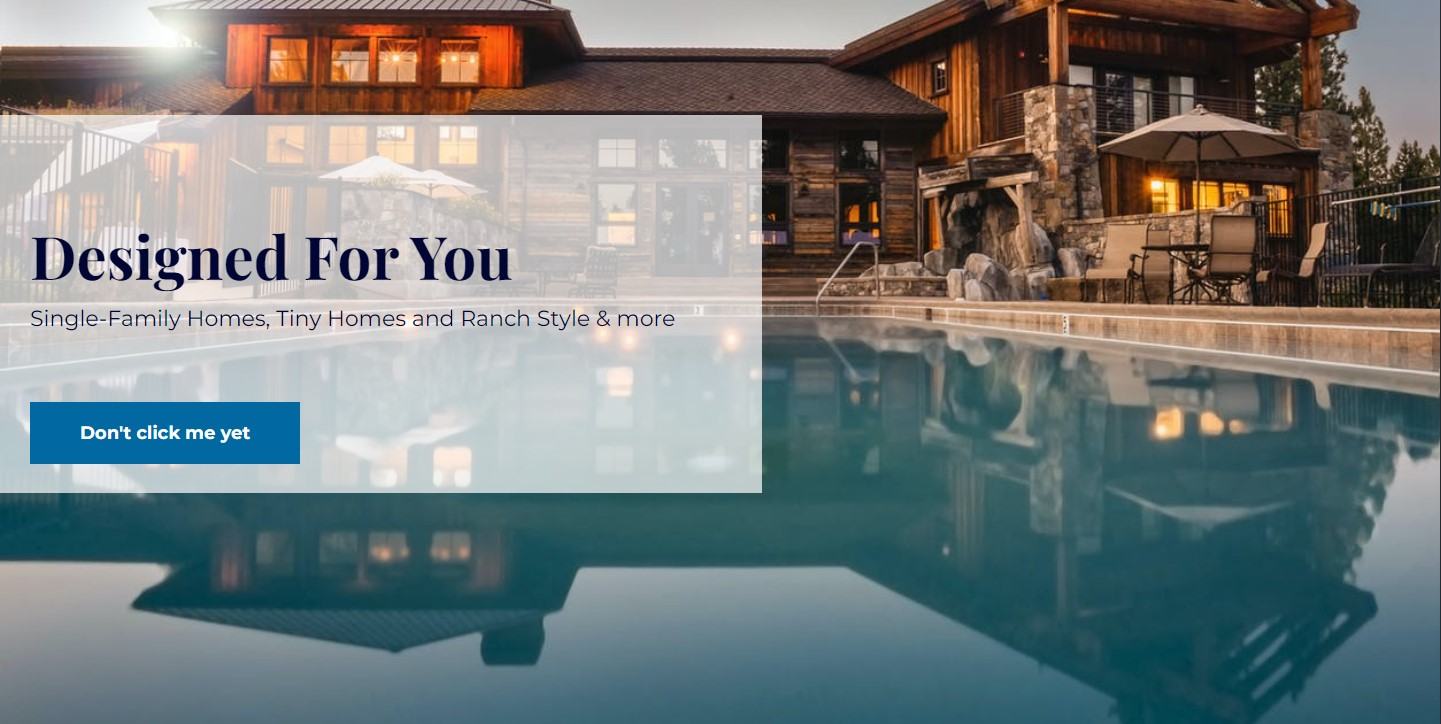
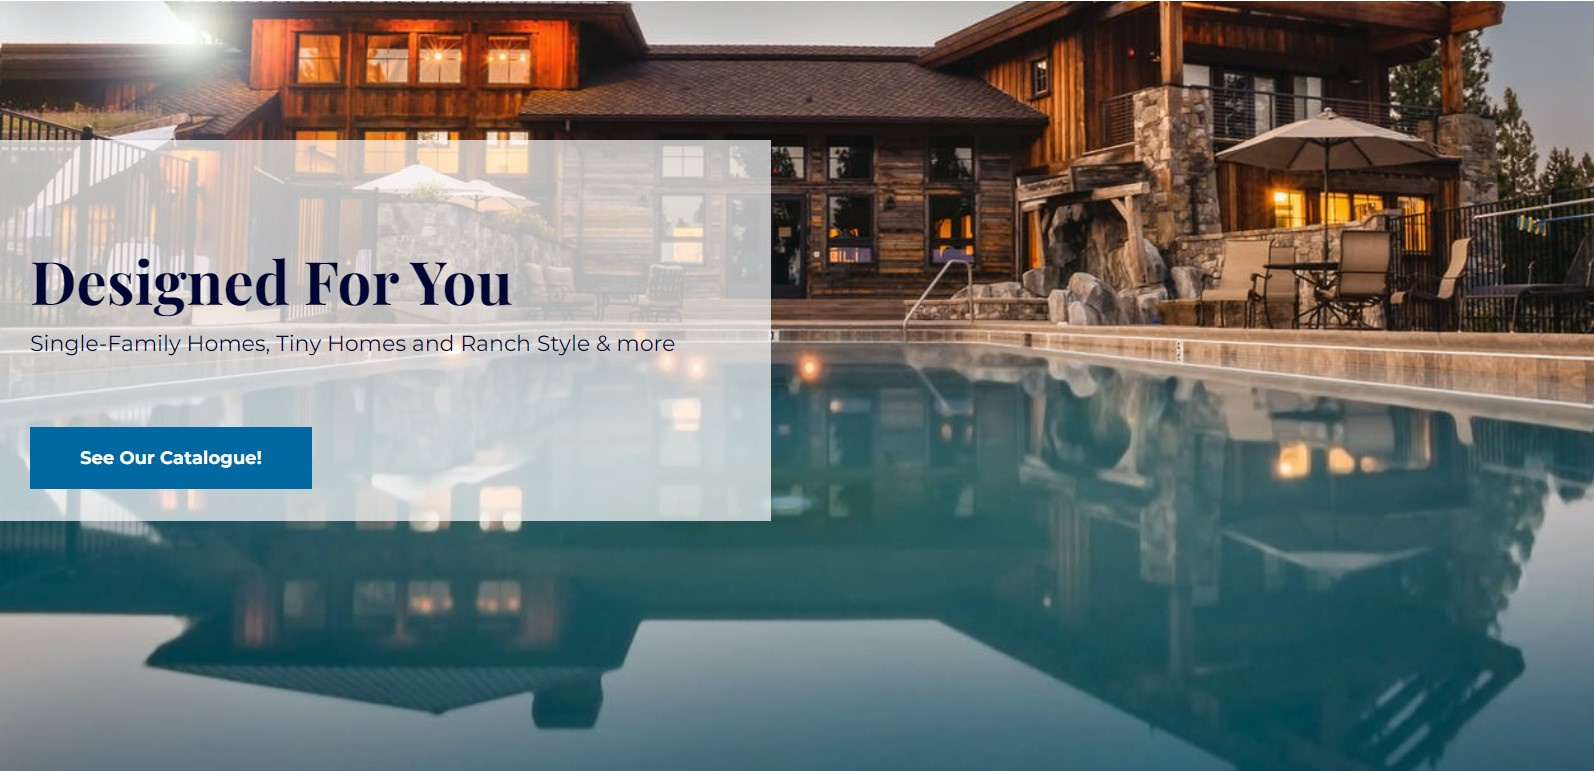
README - complete documentation

diff --git a/index.html b/index.html
@@ -37,7 +37,7 @@
             <div id="welcome-text">
                 <h2>Designed For You</h2>
                 <p>Single-Family Homes, Tiny Homes and Ranch Style & more</p>
-                <a class="button" href="catalogue.html">Don't click me yet</a>
+                <a class="button" href="catalogue.html">See Our Catalogue!</a>
             </div>
         </section>
 

diff --git a/README.md b/README.md
@@ -1,9 +1,9 @@
 # BC Real Estate
 
-The BC Real Estate website is a landing page for our imaginary real estate company.
-The user can explore all the different sections of the page, such as: the features section, the offer section, as well as interact with the map  and the social links at the bottom of the page.
-
+The BC Real Estate website is a landing page for an imaginary real estate company.
+The user can explore all the different sections of the landing page, and not only.
 The website is composed of three separate pages all displayed in the navigation bar of the landing page. 
+Each page presents different feature as well as different functionalities that will enhance the overall experience of the website.
 
 ![Responsive Mockup](docs/responsive_mockup.jpeg)
 ## Features
@@ -12,37 +12,31 @@ In general terms, the features of this website serve two main purposes: to invit
 
 ### Existing Features
 
-- __Navigation Bar__
+__Navigation Bar__
 
-
-- The fully responsive navigation bar is included and identical on all three pages.The navigation bar is kept both in style and functionality the same.
+- The fully responsive navigation bar is included on all three pages. The navigation bar is kept both in style and functionality the same.
 - The navigation bar is fixed to the top of the page from 768px onwards. From small screen (320px) the navigation bar is presented as a list menu.
 
 ![NavBar](docs/nav_bar_mockup.jpeg)
 ![NavBar small device](docs/responsive_nav_bar_mockup.jpeg)
 
 
-
-
-
-- __The landing page__
-
+__The landing page__
 
 - The landing includes a photograph as a background image and a box with a clickable option that redirects the user to the catalogue.
 ![Landing page](docs/landing_page_mockup.jpeg)
 
 
-- __Features section__
+__Features section__
 
-- This section includes three main features that the company is offering to their customers
 - The three features present a clickable options: Browse the catalogue, View Locations and See all showhomes.
-- The last feature presents a call to action to invite people to book a view, the clickable button will redirect the user to the contact page.
+- The last feature presents a call to action to invite people to book a view with the company. The clickable button will redirect the user to the contact page.
 
 ![Feature section](docs/feature_mockup.jpeg)
 ![Feature section](docs/feature_mockup2.jpeg)
 
 
-- __Help section__
+__Help section__
 
 This section is thought to be presented as extra services that can be offered to the customers. 
 The aim of the section is to provide extra guidance and to build a sense of trust in the user.
@@ -50,34 +44,93 @@ The aim of the section is to provide extra guidance and to build a sense of trus
 
 
 
-- __Map section__
+__Map section__
 
 Extra feature to add visibility for the company's imaginary location.
 ![Map section](docs/map_location.jpeg)
 
 
-- __Footer section__
+__Footer section__
 
-In the footer section I've included links to four prominent social media sites for BC Real Estate.
+In the footer section I've included several links to four prominent social media sites for BC Real Estate.
 All links open to new tabs when clicked.
 
 ![Footer section](docs/social_mockup.jpeg)
 
-- __Catalogue__
-- work in progress
+---
 
-- __Contact Us__
-- work in progress
+__Catalogue__
+
+- The Catalogue page displays all the available houses in a grid form fully responsive for all screen sizes.
+- This page will give the users a little insight regarding what the agency can offer, therefore no clickable options on this page are available, except the navigation bar and the footer.
+![Catalogue page](docs/catalogue_mockup.jpeg)
 
 
+---
+__Contact Page__
+
+- The signup form includes four mandatory fields with a submit button at the end of the form. 
+- The final text box is for the user to write a special request if needed. Upon submission, a congratulatory message appears, 
+letting the user know they have submitted the form successfully. The form URL was taken from the Code Institute Love Running project and aesthetically and informationally adapted for this website.
+![Contact Page](docs/contact_mockup.jpeg)
+
+---
+## Testing
+
+- The website itself was tested on Chrome, Safari and Firefox web browsers using a laptop computer. It was also designed to be responsive on a range of devices, using the Responsive setting on Chrome DevTools to simulate sizes.
+- The social media links in the footer were tested and work correctly. All open in new tabs.
+- The signup form was tested and, when filled out and submitted correctly, returns a congratulatory message noting that completion was successful.
+![FormSubmit](docs/test_form_mockup.png)
+- To complete my testing phase, I ran each page through Lighthouse in Chrome DevTools, both desktop and mobile versions. The results are below:
+
+Homepage (desktop and mobile)
+![Lighthouse](docs/lighthouse_index.jpeg)
+![Lighthouse](docs/lighthouse_index_mobile.jpeg)
+Catalogue page (desktop and mobile)
+![Lighthouse](docs/lighthouse_catalogue.jpeg)
+![Lighthouse](docs/lighthouse_catalogue_mobile.jpeg)
+Contact page (desktop and mobile)
+![Lighthouse](docs/lighthouse_contact.jpeg)
+![Lighthouse](docs/lighthouse_contact_mobile.jpeg)
+---
+### Validator Testing
+
+HTML
+- No errors were found when the code was passed through the official [W3C validator](https://validator.w3.org/nu/?doc=https%3A%2F%2Fsebhd1.github.io%2Fbc-real-estate%2F). This was tested and is true for all three pages of the website.
+
+![ValidatorHTML](docs/html_no_errors.jpg)
+
+
+
+CSS
+- No errors were found when passing through the official [(Jigsaw) validator](https://jigsaw.w3.org/css-validator/validator?uri=https%3A%2F%2Fsebhd1.github.io%2Fbc-real-estate%2F&profile=css3svg&usermedium=all&warning=1&vextwarning=&lang=it)
+
+![ValidatorCSS](docs/css_no_errors.jpeg)
+
+---
+## Deployment
+
+I deployed this website to GitHub pages on the GitHub hosting platform following the steps below:
+
+
+- Once in my personal GitHub repository for this project, I clicked the Settings cog button.
+- From there I clicked 'Pages' from the left side menu.
+- Next under 'Source' I selected the main branch,  refreshed the page and a link to the live site was provided, indicating successful deployment.
+
+![Deployment](docs/github_pages_mockup.jpeg)
+
+
+The live link can be found here - https://sebhd1.github.io/bc-real-estate/
 
 ## Credits
+
+---
 ### Content
 
 
 - The social media icons found in the footer were taken from [Font Awesome](https://fontawesome.com/)
-
 - I used Stack Overflow for general troubleshooting.
+- The congratulatory pop-up that appears on the Get Involved page after filling out the form is also a product of Code Institute and was used solely to ensure the form worked correctly.
 
 ### Media
 
